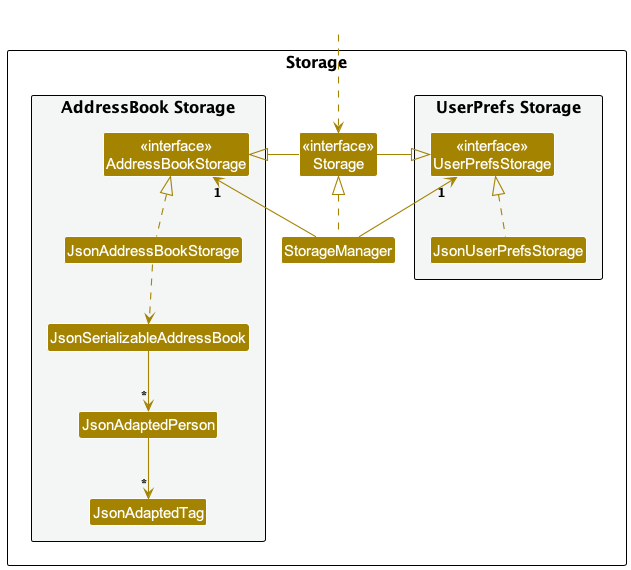
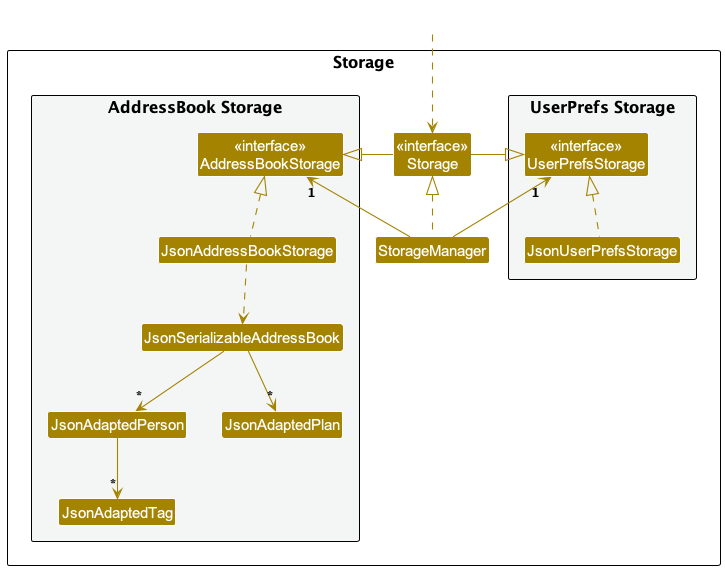
Refactor UML Diagrams for ModelClassDiagram and StorageClassDiagram

Changed region(s): [[0.0, 0.0895, 0.9635, 0.9842], [0.9937, 0.0895, 1.0, 1.0], [0.4517, 0.0895, 0.5721, 0.1491]]

diff --git a/docs/DeveloperGuide.md b/docs/DeveloperGuide.md
@@ -121,8 +121,8 @@ How the parsing works:
 
 The `Model` component,
 
-* stores the address book data i.e., all `Person` objects (which are contained in a `UniquePersonList` object).
-* stores the currently 'selected' `Person` objects (e.g., results of a search query) as a separate _filtered_ list which is exposed to outsiders as an unmodifiable `ObservableList<Person>` that can be 'observed' e.g. the UI can be bound to this list so that the UI automatically updates when the data in the list change.
+* stores the address book data i.e., all `Person` and `Plan` objects (which are contained in `UniquePersonList` and `UniquePlanList` objects).
+* stores the currently 'selected' `Person` and `Plan` objects (e.g., results of a search query) as separate _filtered_ lists which are exposed to outsiders as unmodifiable `ObservableList<Person>` and `ObservableList<Plan>` that can be 'observed' e.g. the UI can be bound to this list so that the UI automatically updates when the data in the list change.
 * stores a `UserPref` object that represents the user’s preferences. This is exposed to the outside as a `ReadOnlyUserPref` objects.
 * does not depend on any of the other three components (as the `Model` represents data entities of the domain, they should make sense on their own without depending on other components)
 
@@ -156,12 +156,15 @@ This section describes some noteworthy details on how certain features are imple
 
 ### _New features added to AddressBook_
 
-### 1. `add-plan` [elijah doing]
+### 1. `add-plan`
+![FindPlanCommandActivityDiagram](images/AddPlanCommandActivityDiagram.png)
+The add-plan command allows users to add a new Plan, provided that it involves a friend who is present in `UniquePersonList` and the Plan does not already exist.
 
 Add-plan is done similarly to the original add command in AddressBook.
-<!-- Insert sequence diagram here -->
-The `add-plan` command is executed by the `Logic`, then parsed by the AddressBookParser. It then creates a `AddPlanCommandParser`. This is then used to parse the command. This results in a `AddPlanCommand` object. The `.execute()` method of the `AddPlanCommand` object is then invoked by `Logic`. The command then communicates with `Model` when it is executed.
-<!-- Add more details rgd the communication here -->
+![FindPlanCommandActivityDiagram](images/AddPlanCommandSequenceDiagram.png)
+The `add-plan` command is executed by the `Logic`, then parsed by the AddressBookParser. It then creates a `AddPlanCommandParser`. This is then used to parse the command. This results in a `AddPlanCommand` object. The `.execute()` method of the `AddPlanCommand` object is then invoked by `Logic`. Following this, `AddPlanCommand` then communicates with `Model`. It first uses the `Model::getPersonByName` function to check if that friend exists. If the friend exists, a `Plan` object is created, and `Model` helps to add it. Finally, a `CommandResult` is returned.
+
+Note that there are several classes not included in the above diagram, but still used. These include (but are not limited to) the `AddressBook` class which stores `UniquePersonList` and `UniquePlanList`. A `Plan` object also requires `PlanName`, `PlanDateTime` and a `Person` object as the friend associated with the Plan.
 
 ### 2. `find-plan`
 
@@ -191,11 +194,12 @@ Step 5. Finally, this `Predicate` instance will be inputted into the `Model#upda
 
 The following sequence diagram shows how the `find-plan` command works.
 
-![FindPlanCommandSequenceDiagram](diagrams/FindPlanCommandSequenceDiagram.png)
+![FindPlanCommandSequenceDiagram](images/FindPlanCommandSequenceDiagram.png)
+
 
 The following activity diagram summarizes what happens when a user executes the `find-plan` command:
 
-![FindPlanCommandActivityDiagram](diagrams/FindPlanCommandActivityDiagram.png)
+![FindPlanCommandActivityDiagram](images/FindPlanCommandActivityDiagram.png)
 
 #### Design considerations:
 
@@ -211,12 +215,33 @@ The following activity diagram summarizes what happens when a user executes the 
     * Cons: Implementation of finding by First Name is more challenging, and there may be duplicate friends with the same First Name, 
   since each Person object's First Name does not have to be unique.
 
-### 3. `delete-plan` [possible]
+### 3. `delete-plan`
 
-Delete plan is done similarly to the original delete command in AddressBook.
-<!-- Insert sequence diagram here -->
-The `delete-plan` command is executed by the `Logic`, then parsed by the AddressBookParser. It then creates a `DeletePlanCommandParser`. This is then used to parse the command. This results in a `DeletePlanCommand` object. The `.execute()` method of the `DeletePlanCommand` object is then invoked by `Logic`. The command then communicates with `Model` when it is executed.
-<!-- Add more details rgd the communication here -->
+The `delete-plan` command allows the user to delete a plan. The plans list on the
+Ui will be updated to display the relevant plans. This mechanism is facilitated by the `Model` interface through
+has the following operations:
+* `Model#deletePlan(Plan)` - Gets the plan (Plan object) by Plan input.
+
+Given below is an example usage scenario and how the find plan mechanism behaves at each step.
+
+Step 1. The user has plans. The `Model` will store the list of plans in the
+form of a `FilteredList` type.
+
+Step 2. The user executes `delete-plan index` command to find plan at that index in the FriendBook.
+As described in the Logic Component above, this will create a `DeletePlanCommand` instance.
+
+Step 3. The `LogicManager` will call `DeletePlanCommand#execute()` to start the search for plans. Then, `Model#deletePlan(Plan)`
+will be called to delete that plan.
+
+Step 4. `Model#deletePlan(Plan)` will call `AddressBook#removePlan(Plan)` which will then remove the plan from the UniquePlanList in the FriendBook.
+
+Step 5. The Ui will display a success message if the command is successful and the error message otherwise.
+ 
+<div markdown="span" class="alert alert-info">:information_source: **Note:** If no plan can be found in the address book with the given index, an error will be thrown and the mechanism will terminate.
+</div>
+
+![DeleteSequenceDiagram](diagrams/DeleteSequenceDiagram.png)
+
 
 ### 4. `edit-plan` [possible]
 
